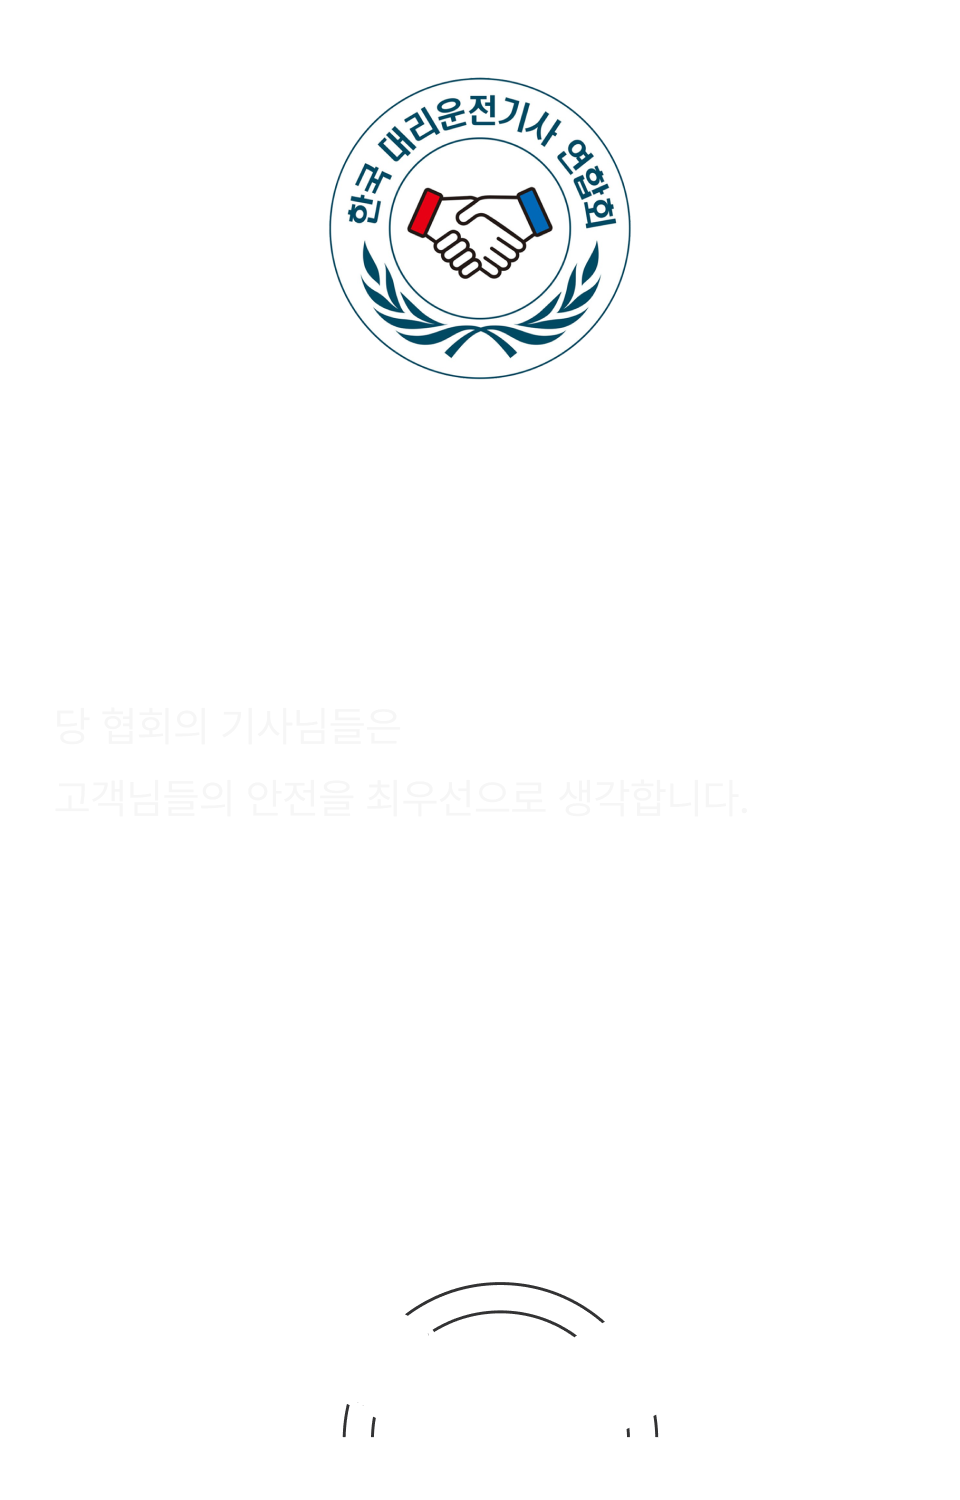
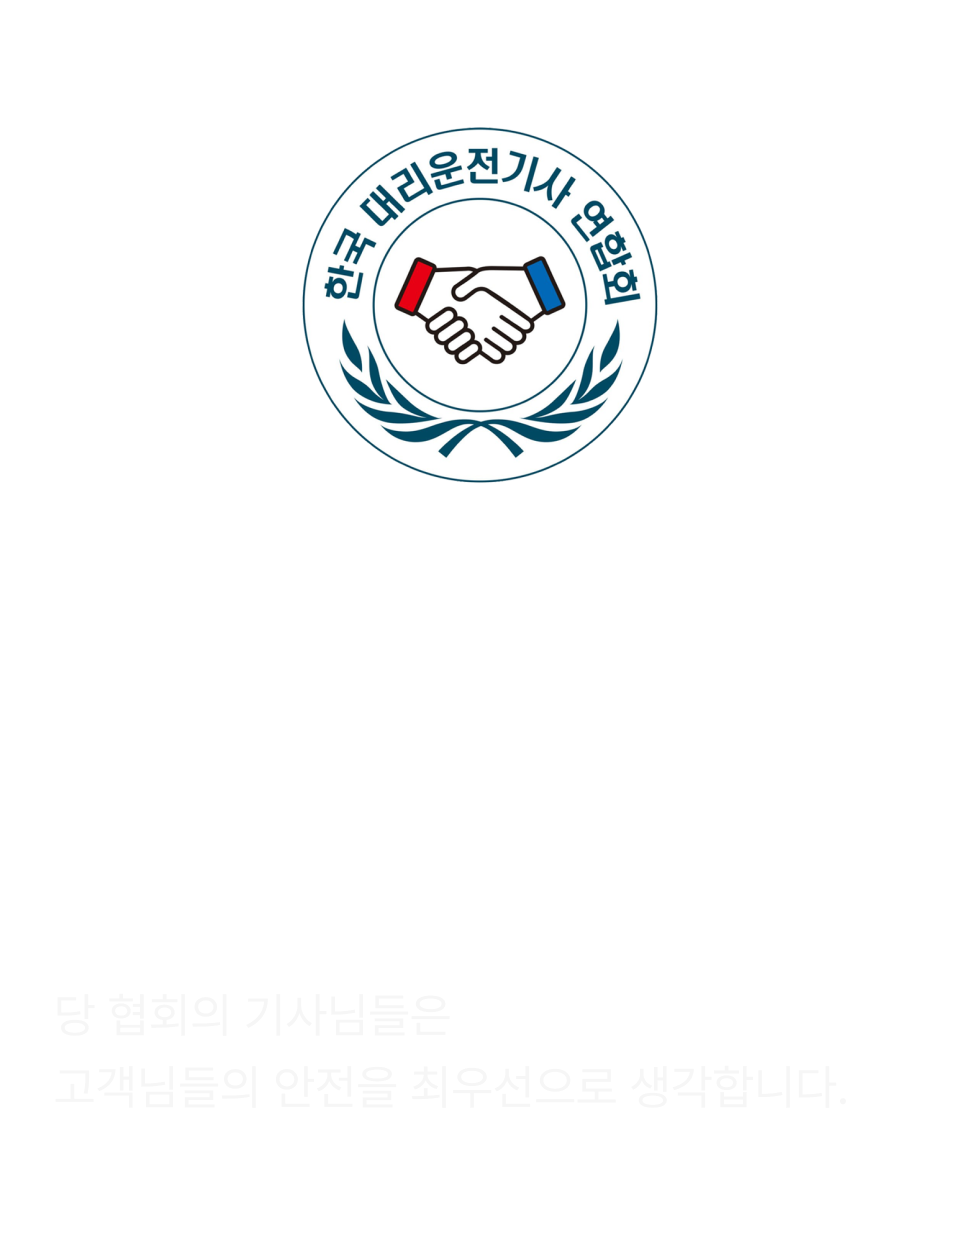
온보딩 이미지 변경

Changed region(s): [[0.3125, 0.0619, 0.6875, 0.3714], [0.5625, 0.8667, 0.625, 0.8976]]

diff --git a/lib/presentation/view/screen/onboarding/onboarding_screen.dart b/lib/presentation/view/screen/onboarding/onboarding_screen.dart
@@ -49,16 +49,6 @@ class _OnBoardingScreenState extends State<OnBoardingScreen> {
                 ),
                 decoration: getScreenDecoration(context),
               ),
-              PageViewModel(
-                title: "",
-                body: "",
-                image: Image.asset(
-                  themeMode == ThemeMode.light ? ImageOnBoarding.imgOnBoarding2Light : ImageOnBoarding.imgOnBoarding2Dark,
-                  width: double.maxFinite,
-                  height: double.infinity,
-                ),
-                decoration: getScreenDecoration(context),
-              ),
             ],
 
             /// 시작하기 버튼

diff --git a/lib/presentation/values/images.dart b/lib/presentation/values/images.dart
@@ -78,6 +78,4 @@ abstract class ImageOnBoarding {
 
   static const String imgOnBoarding1Light = "assets/onboarding/img_onboarding1_light.png";
   static const String imgOnBoarding1Dark = "assets/onboarding/img_onboarding1_dark.png";
-  static const String imgOnBoarding2Light = "assets/onboarding/img_onboarding2_light.png";
-  static const String imgOnBoarding2Dark = "assets/onboarding/img_onboarding2_dark.png";
 }
